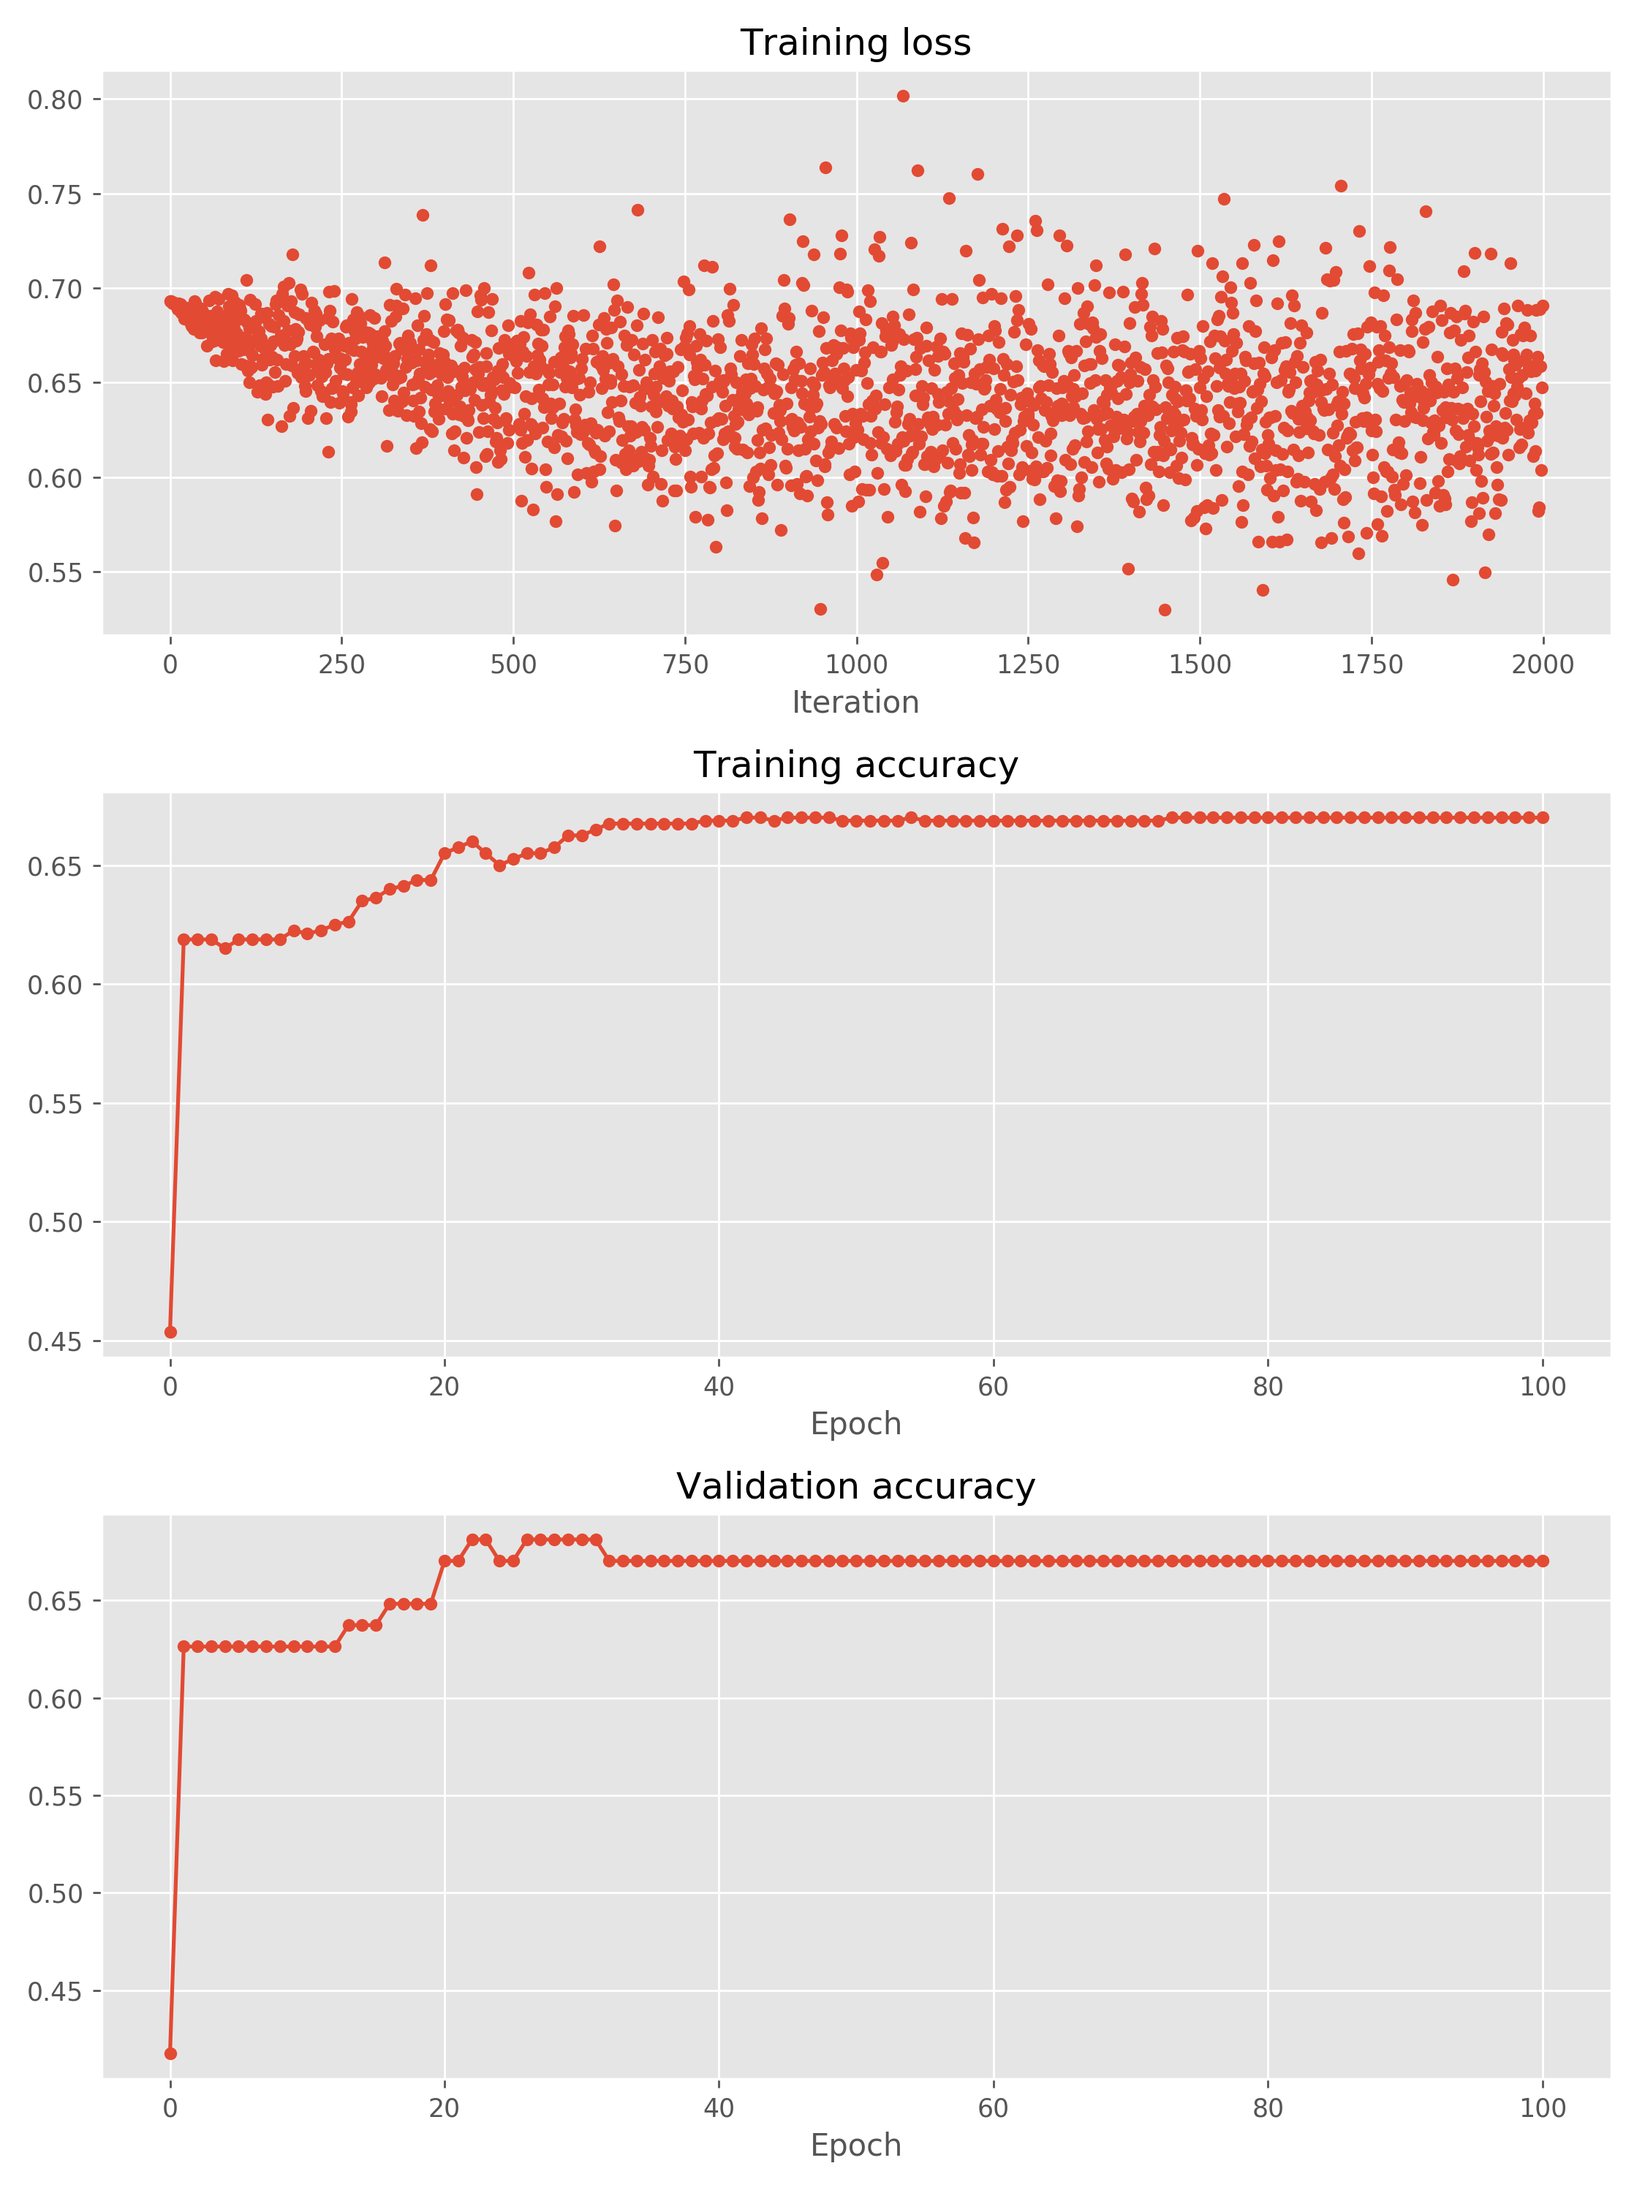
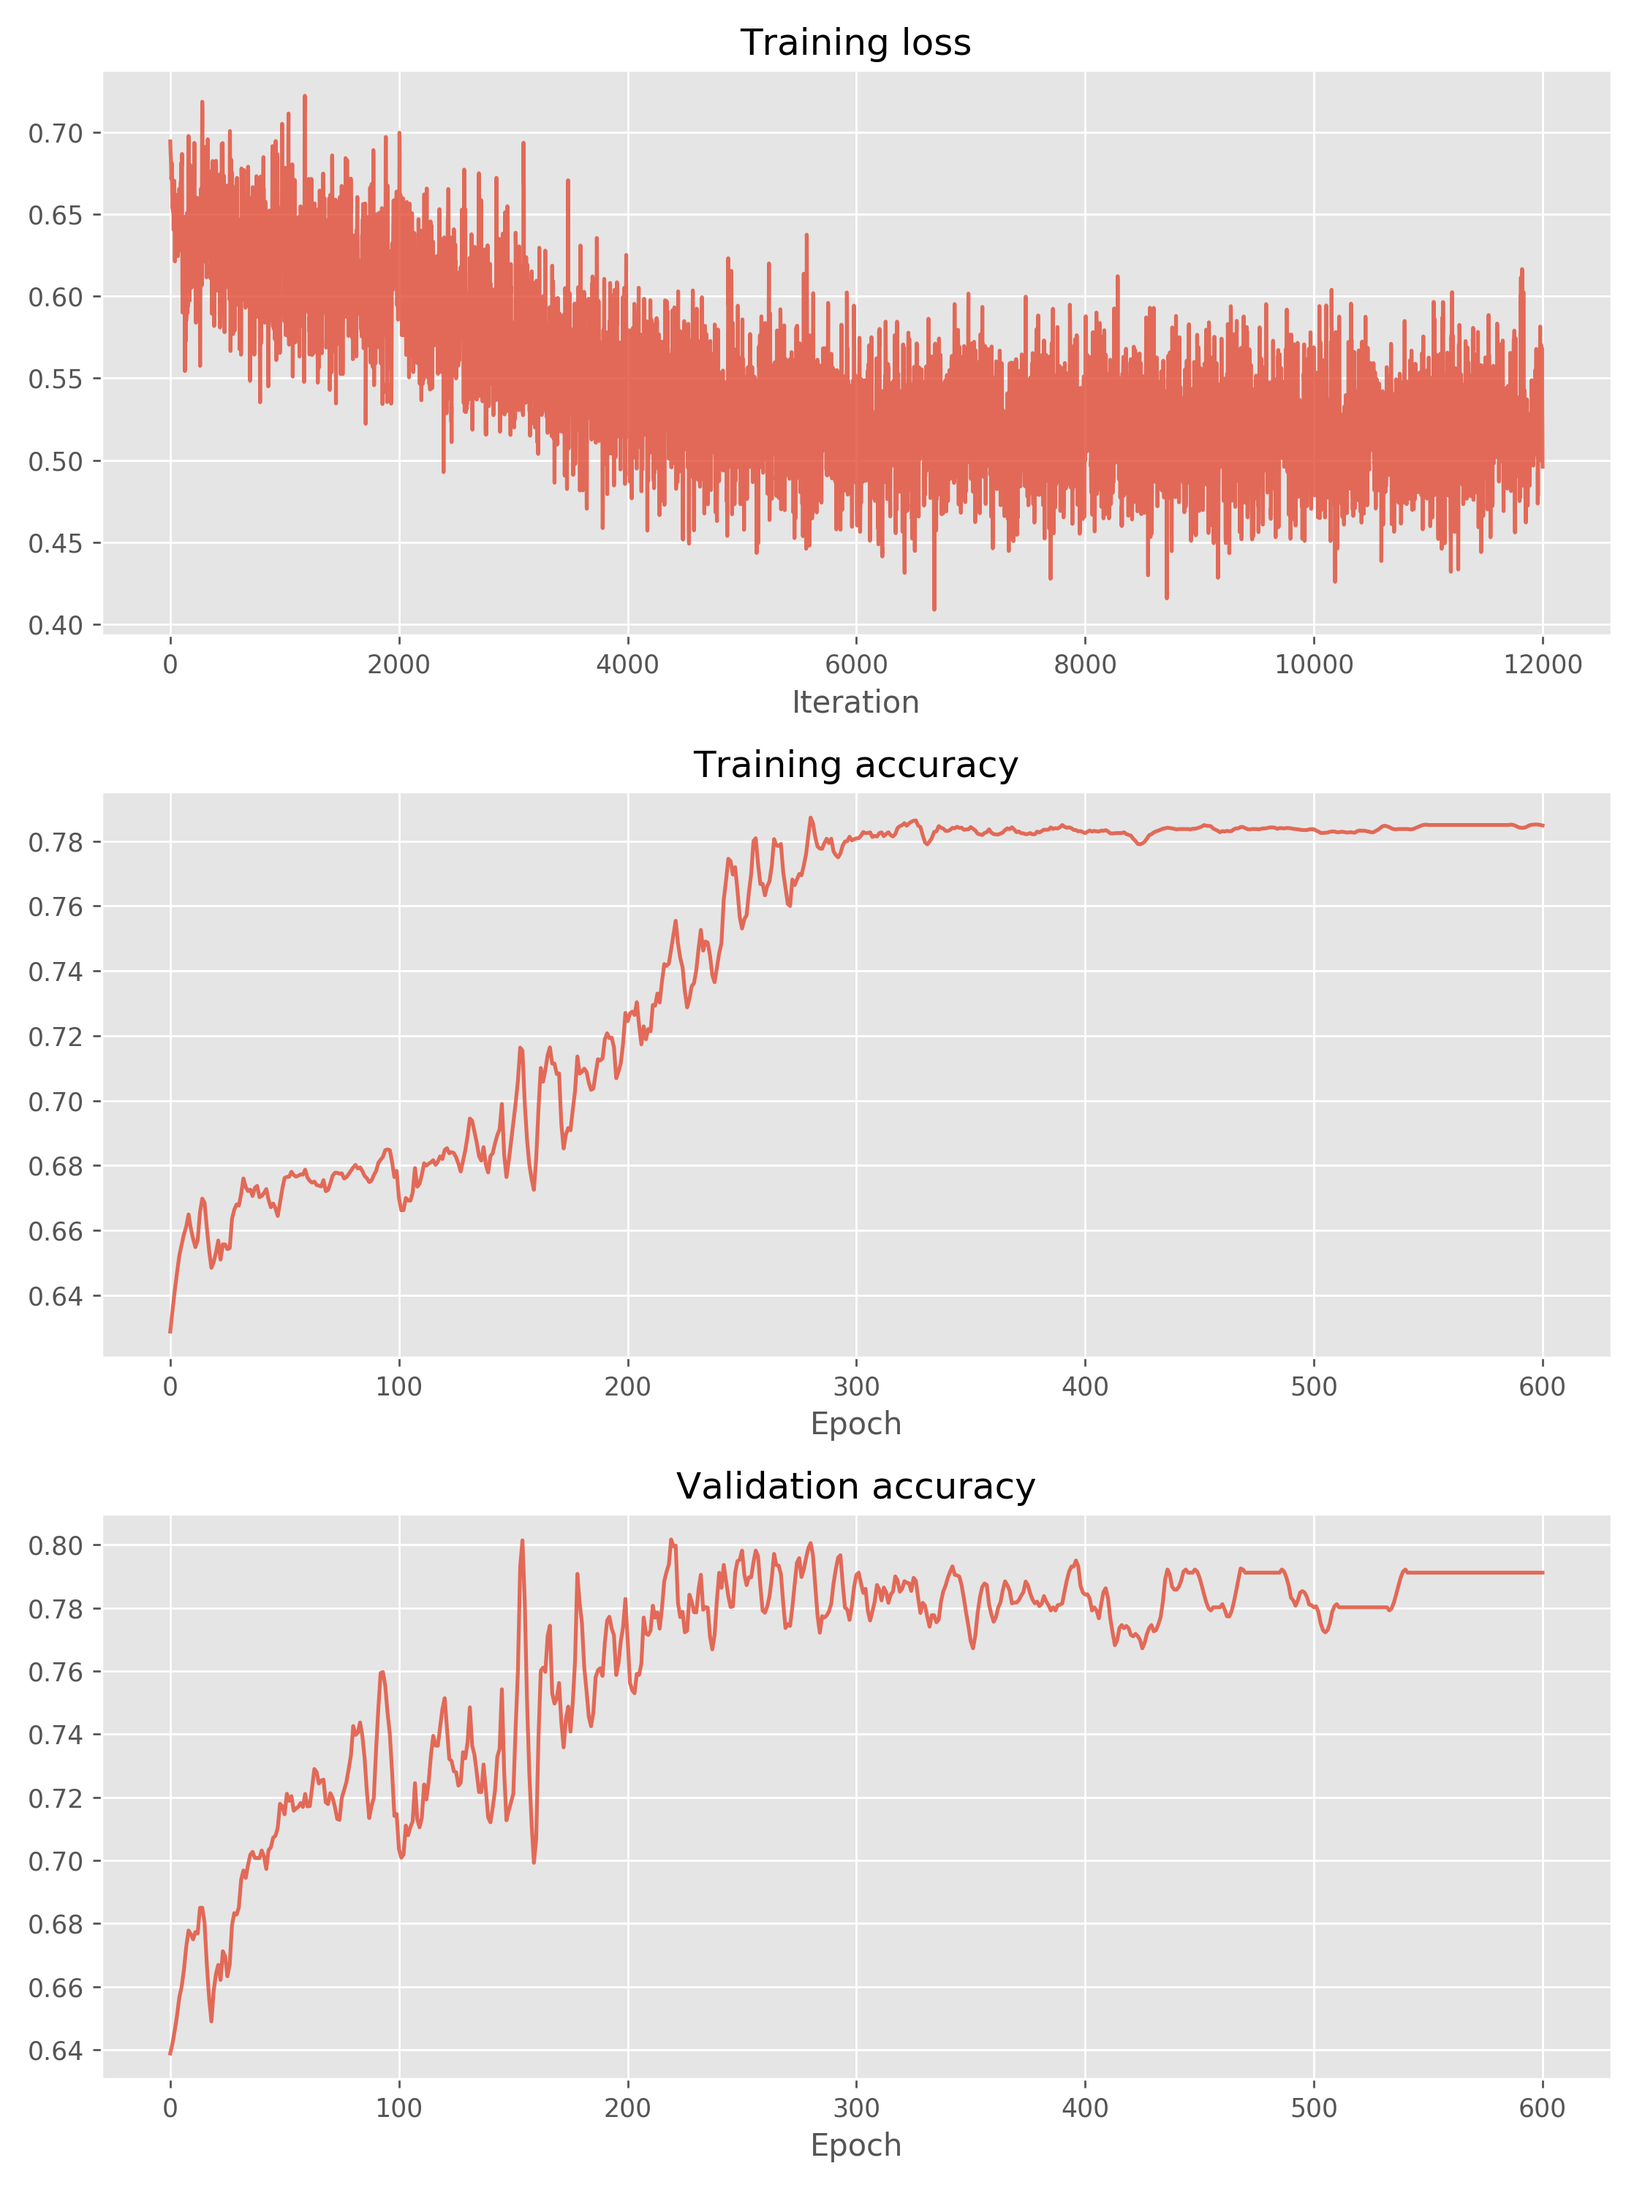
all

diff --git a/main.py b/main.py
@@ -10,7 +10,7 @@ from model import FullyConnectedNet
 np.random.seed(0)
 plt.style.use('ggplot')
 OPTIMIZER = 'sgd'
-NUM_EPOCH = 100
+NUM_EPOCH = 600
 
 
 def plot(solver, filename):
@@ -32,6 +32,36 @@ def plot(solver, filename):
     plt.plot(solver.train_acc_history, '-o', markersize=4)
     plt.subplot(3, 1, 3)
     plt.plot(solver.val_acc_history, '-o', markersize=4)
+
+    for i in [1, 2, 3]:
+        plt.subplot(3, 1, i)
+        # plt.legend(loc='upper center', ncol=4)
+    plt.gcf().set_size_inches(9, 12)
+    plt.tight_layout()
+    plt.savefig(os.path.join('./result/', filename), dpi=250)
+    plt.close()
+
+    return
+
+def plot_smooth(solver, filename, a=1, m='-o'):
+    plt.subplot(3, 1, 1)
+    plt.title('Training loss')
+    plt.xlabel('Iteration')
+
+    plt.subplot(3, 1, 2)
+    plt.title('Training accuracy')
+    plt.xlabel('Epoch')
+
+    plt.subplot(3, 1, 3)
+    plt.title('Validation accuracy')
+    plt.xlabel('Epoch')
+
+    plt.subplot(3, 1, 1)
+    plt.plot(sp.signal.savgol_filter(solver.loss_history, 9, 2), m, markersize=4, alpha=a)
+    plt.subplot(3, 1, 2)
+    plt.plot(sp.signal.savgol_filter(solver.train_acc_history, 9, 2), m, markersize=4, alpha=a)
+    plt.subplot(3, 1, 3)
+    plt.plot(sp.signal.savgol_filter(solver.val_acc_history, 9, 2), m, markersize=4, alpha=a)
 
     for i in [1, 2, 3]:
         plt.subplot(3, 1, i)
@@ -148,7 +178,7 @@ def problem1():
             'y_val': y_test.astype(int),
         }
 
-        model = FullyConnectedNet([10, 10, 10, 10],
+        model = FullyConnectedNet([50, 50, 10],
                                   input_dim=6,
                                   num_classes=2,
                                   weight_scale=5e-2,
@@ -158,9 +188,9 @@ def problem1():
             data_dict,
             update_rule=OPTIMIZER,
             optim_config={
-                'learning_rate': 0.1,
+                'learning_rate': 0.05,
             },
-            lr_decay=0.98,
+            lr_decay=0.95,
             num_epochs=800,
             batch_size=10,
             print_every=100,
@@ -204,15 +234,15 @@ def problem2():
         data,
         update_rule=OPTIMIZER,
         optim_config={
-            'learning_rate': 0.01,
+            'learning_rate': 0.1,
         },
-        lr_decay=0.95,
+        lr_decay=0.98,
         num_epochs=NUM_EPOCH,
         batch_size=40,
         print_every=100,
         verbose=False)
     solver_2.train()
-    plot(solver_2, 'prob2.png')
+    plot_smooth(solver_2, 'prob2.png', a=0.8, m='-')
     return
 
 
@@ -452,8 +482,8 @@ def problem6():
 
 if __name__ == '__main__':
     # problem1()
-    # problem2()
+    problem2()
     # problem3()
-    problem4()
+    # problem4()
     # problem5()
     pass
